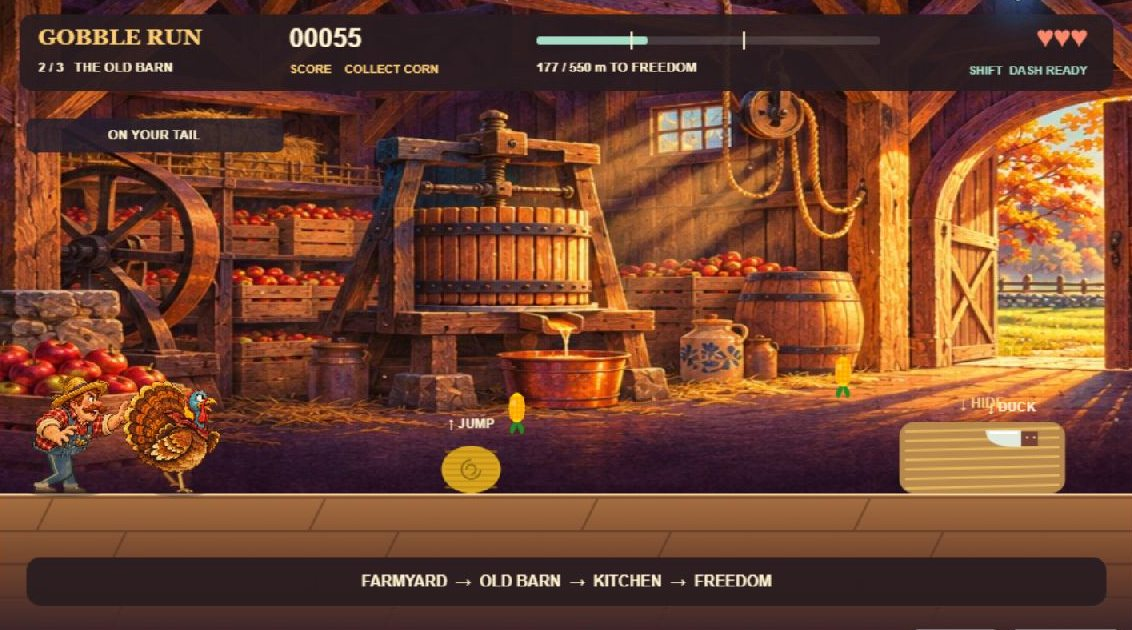
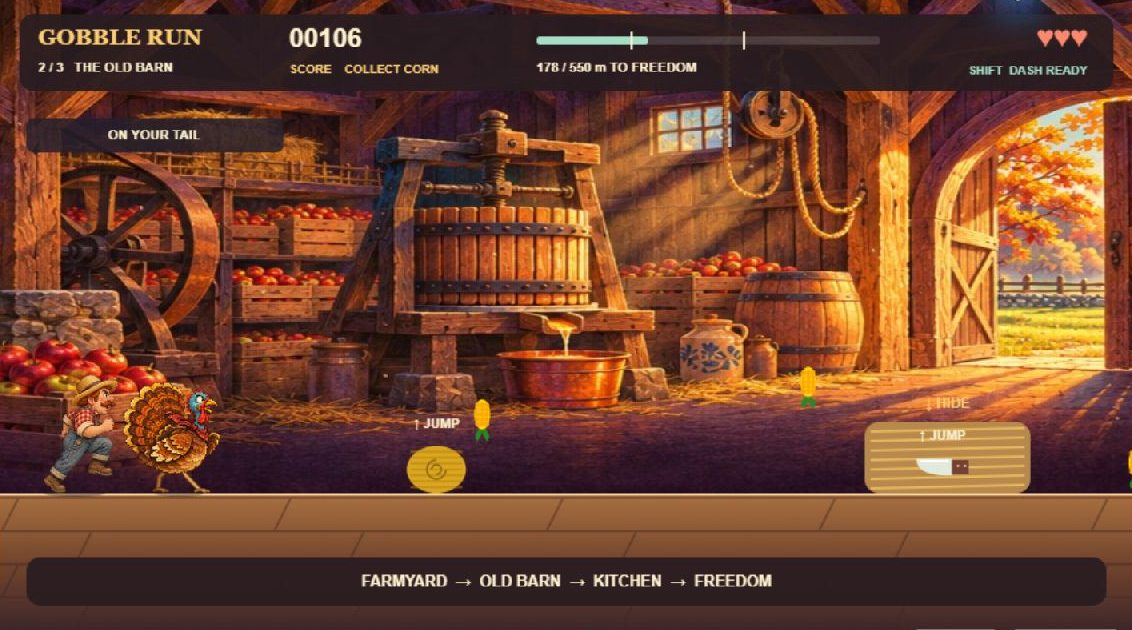
Use a natural full-body run cycle for the farmer

diff --git a/game/src/characters.js b/game/src/characters.js
@@ -1,4 +1,4 @@
-/** Join the animated lower legs to the painted bodies. Coordinates are relative to the ground. */
+/** Draw the painted characters relative to the ground line. */
 import { CONFIG } from './config.js';
 
 const TAU = 2 * Math.PI;
@@ -86,117 +86,22 @@ export function drawPaintedTurkey(ctx, art, turkey) {
   ctx.restore();
 }
 
-function farmerTrouserLeg(ctx, art, hipX, hipY, ankleX, soleY, rear) {
-  const ankleY = soleY - 6;
-  const dx = ankleX - hipX;
-  const dy = ankleY - hipY;
-  const distance = Math.hypot(dx, dy);
-  // Bend the knee forward between the hip and the planted or swinging foot.
-  const bend = Math.sqrt(Math.max(0, 21 ** 2 - (distance / 2) ** 2));
-  const kneeX = hipX + dx / 2 + dy / distance * bend;
-  const kneeY = hipY + dy / 2 - dx / distance * bend;
-
-  const denim = ctx.createLinearGradient(kneeX - 11, kneeY, kneeX + 9, kneeY);
-  denim.addColorStop(0, rear ? '#222c31' : '#28363b');
-  denim.addColorStop(0.64, rear ? '#364650' : '#405564');
-  denim.addColorStop(1, rear ? '#465250' : '#626959');
-  ctx.fillStyle = denim;
-  ctx.strokeStyle = '#242425';
-  ctx.lineWidth = 1.35;
-  ctx.lineJoin = 'round';
-  ctx.beginPath();
-  ctx.moveTo(hipX - 12, hipY - 7);
-  ctx.quadraticCurveTo(kneeX - 10, kneeY - 5, kneeX - 7, kneeY + 2);
-  ctx.lineTo(ankleX - 6, ankleY);
-  ctx.quadraticCurveTo(ankleX, ankleY + 3, ankleX + 6, ankleY);
-  ctx.quadraticCurveTo(kneeX + 7, kneeY + 7, kneeX + 9, kneeY + 2);
-  ctx.quadraticCurveTo(kneeX + 10, kneeY - 4, hipX + 10, hipY - 8);
-  ctx.closePath();
-  ctx.fill();
-  // Reuse the painted denim grain to blend the moving legs into the bib.
-  const left = Math.min(hipX - 12, kneeX - 10, ankleX - 6);
-  const right = Math.max(hipX + 10, kneeX + 10, ankleX + 6);
-  ctx.save();
-  ctx.clip();
-  ctx.globalAlpha *= rear ? 0.34 : 0.55;
-  ctx.drawImage(art, 33, 313, 22, 24, left, hipY - 8, right - left, ankleY - hipY + 12);
-  ctx.restore();
-  ctx.stroke();
-
-  ctx.lineCap = 'round';
-  ctx.lineWidth = 1;
-  ctx.strokeStyle = rear ? '#8b785a' : '#bc9c68';
-  ctx.beginPath();
-  ctx.moveTo(hipX - 6, hipY - 4);
-  ctx.quadraticCurveTo(kneeX - 6, kneeY - 3, kneeX - 3, kneeY + 2);
-  ctx.lineTo(ankleX - 3, ankleY - 1);
-  ctx.stroke();
-  ctx.lineWidth = 3.4;
-  ctx.strokeStyle = rear ? '#85745a' : '#b49a72';
-  ctx.beginPath();
-  ctx.moveTo(ankleX - 4.6, ankleY - 0.8);
-  ctx.quadraticCurveTo(ankleX, ankleY + 1.3, ankleX + 4.6, ankleY - 0.7);
-  ctx.stroke();
-}
-
-function farmerBoot(ctx, ankleX, soleY, rear) {
-  ctx.lineCap = 'round';
-  ctx.lineJoin = 'round';
-  ctx.save();
-  ctx.translate(ankleX, soleY);
-  ctx.beginPath();
-  ctx.moveTo(-4.5, -8.2);
-  ctx.quadraticCurveTo(0, -9, 3.2, -7.5);
-  ctx.quadraticCurveTo(4.6, -5.4, 9, -4.4);
-  ctx.quadraticCurveTo(13.8, -3.6, 12.7, -0.8);
-  ctx.quadraticCurveTo(5.6, 0.1, -5.1, -0.7);
-  ctx.quadraticCurveTo(-6.3, -3.3, -4.5, -8.2);
-  ctx.closePath();
-  const leather = ctx.createLinearGradient(0, -9, 0, -1);
-  leather.addColorStop(0, rear ? '#936b47' : '#b88652');
-  leather.addColorStop(1, rear ? '#503728' : '#65412b');
-  ctx.fillStyle = leather;
-  ctx.fill();
-  ctx.strokeStyle = '#342721';
-  ctx.lineWidth = 1.2;
-  ctx.stroke();
-  ctx.beginPath();
-  ctx.moveTo(3, -5.1);
-  ctx.lineTo(6, -4.3);
-  ctx.strokeStyle = '#e0b581';
-  ctx.lineWidth = 0.85;
-  ctx.stroke();
-  ctx.restore();
-}
-
 export function drawPaintedFarmer(ctx, art, farmer) {
-  const phase = (farmer.legTimer * 0.18) % TAU;
-  const bob = -2 * Math.sin(phase) ** 2;
+  const columns = 4;
+  const rows = 2;
+  const frame = Math.floor(farmer.legTimer * 0.17) % (columns * rows);
+  const cellWidth = art.naturalWidth / columns;
+  const cellHeight = art.naturalHeight / rows;
+  const height = 108;
+  const width = height * cellWidth / cellHeight;
+  // The atlas frames share the same ground line, seven pixels above the cell edge.
+  const ground = height * (cellHeight - 7) / cellHeight;
+
   ctx.save();
   ctx.translate(farmer.x + farmer.width / 2, farmer.y + farmer.height);
-  shadow(ctx, -12, 29, 0.38);
-  for (const rear of [true, false]) {
-    const hipX = rear ? -29 : -20;
-    const hipY = (rear ? -40 : -39) + bob;
-    const [swing, rise] = stride(phase + (rear ? Math.PI : 0), 19, 14);
-    const ankleX = hipX + 5 + swing;
-    farmerBoot(ctx, ankleX, rise, rear);
-    farmerTrouserLeg(ctx, art, hipX, hipY, ankleX, rise, rear);
-  }
-
-  // Preserve the painted waist and pockets while hiding the fixed pose below them.
-  ctx.save();
-  ctx.translate(-48, -99 + bob);
-  ctx.beginPath();
-  ctx.moveTo(0, 0);
-  ctx.lineTo(98, 0);
-  ctx.lineTo(98, 63);
-  ctx.lineTo(57, 62);
-  ctx.bezierCurveTo(49, 62, 44, 69, 33, 68);
-  ctx.quadraticCurveTo(19, 66, 0, 57);
-  ctx.closePath();
-  ctx.clip();
-  ctx.drawImage(art, 0, 0, 98, 89);
-  ctx.restore();
+  shadow(ctx, -4, 26, 0.38);
+  ctx.drawImage(art,
+    (frame % columns) * cellWidth, Math.floor(frame / columns) * cellHeight,
+    cellWidth, cellHeight, -width / 2 + 4, -ground, width, height);
   ctx.restore();
 }

diff --git a/game/index.html b/game/index.html
@@ -9,7 +9,7 @@
 <body>
   <img id="sceneAtlas" src="art/harvest-scenes.jpg" alt="" hidden>
   <img id="turkeyArt" src="art/turkey.png" alt="" hidden>
-  <img id="farmerArt" src="art/farmer.png" alt="" hidden>
+  <img id="farmerArt" src="art/farmer-run.webp" alt="" hidden>
   <canvas id="gameCanvas" tabindex="0" aria-label="Gobble Run. Space or click to jump, Down to duck and hide in hay, Shift to dash, P to pause, M to mute."></canvas>
   <div class="toolbar"><button id="pauseButton" type="button">Pause · P</button><button id="soundButton" type="button" aria-pressed="false">Sound on · M</button></div>
   <nav id="practiceMenu" aria-label="Stage practice"><span>Practice a stage</span><button data-practice="0">Farmyard</button><button data-practice="1">Barn</button><button data-practice="2">Kitchen</button></nav>
